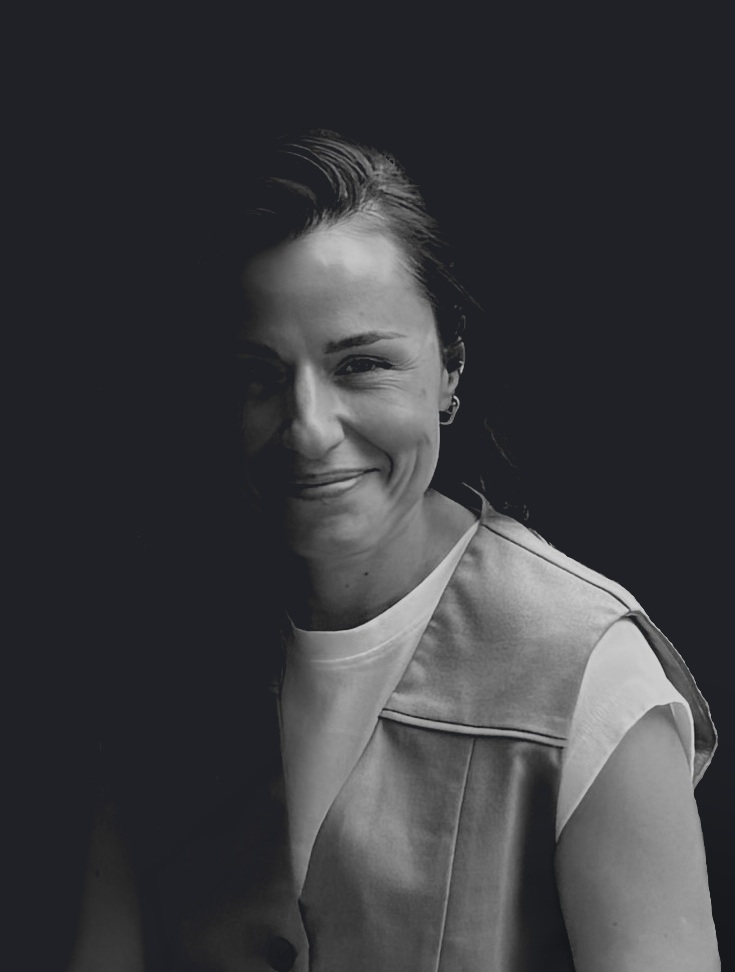
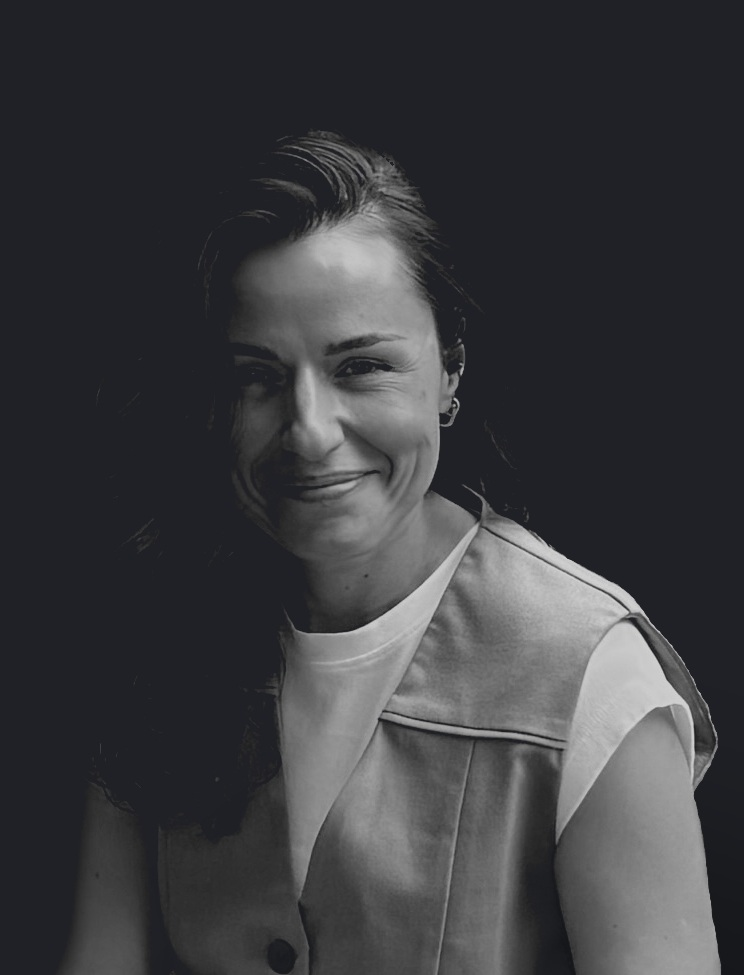
UPDATE: Anna image

diff --git a/lib/page-content/team-members.ts b/lib/page-content/team-members.ts
@@ -68,8 +68,8 @@ export const allTeamMembers: TeamMember[] = [
     role: "Principal Consultant",
     imageSrc: "/Anna%20Burda.JPG",
     imageAlt: "Anna Burda",
-    imageWidth: 735,
-    imageHeight: 972,
+    imageWidth: 744,
+    imageHeight: 975,
     intro:
       "For the past decade, Anna has been delivering complex, AI-led projects across Australia and New Zealand - web builds, CRM implementations, mini-SaaS products and automation - from first scoping conversation through to successful execution, across a wide range of businesses and technologies.",
     experienceIntro: